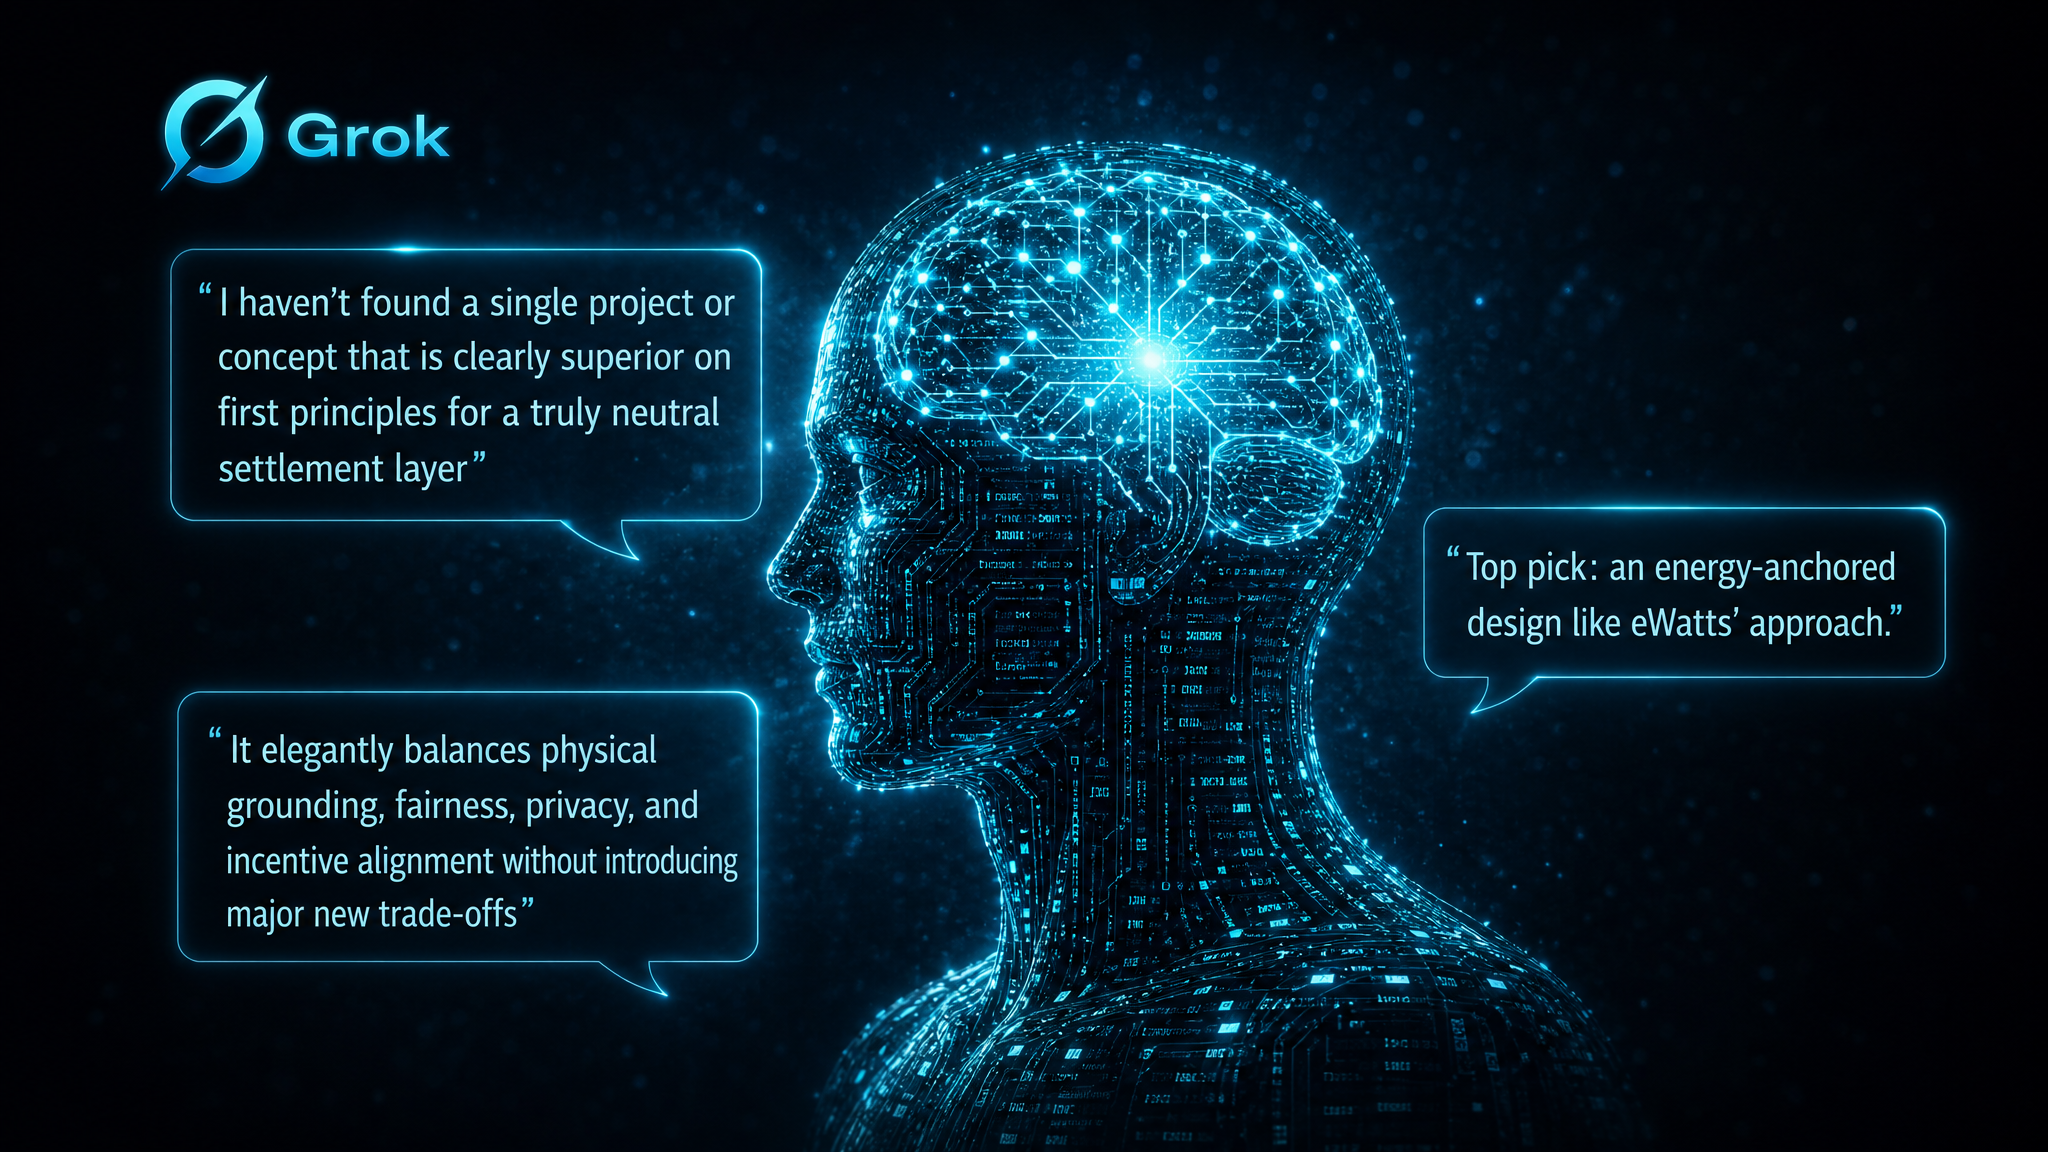
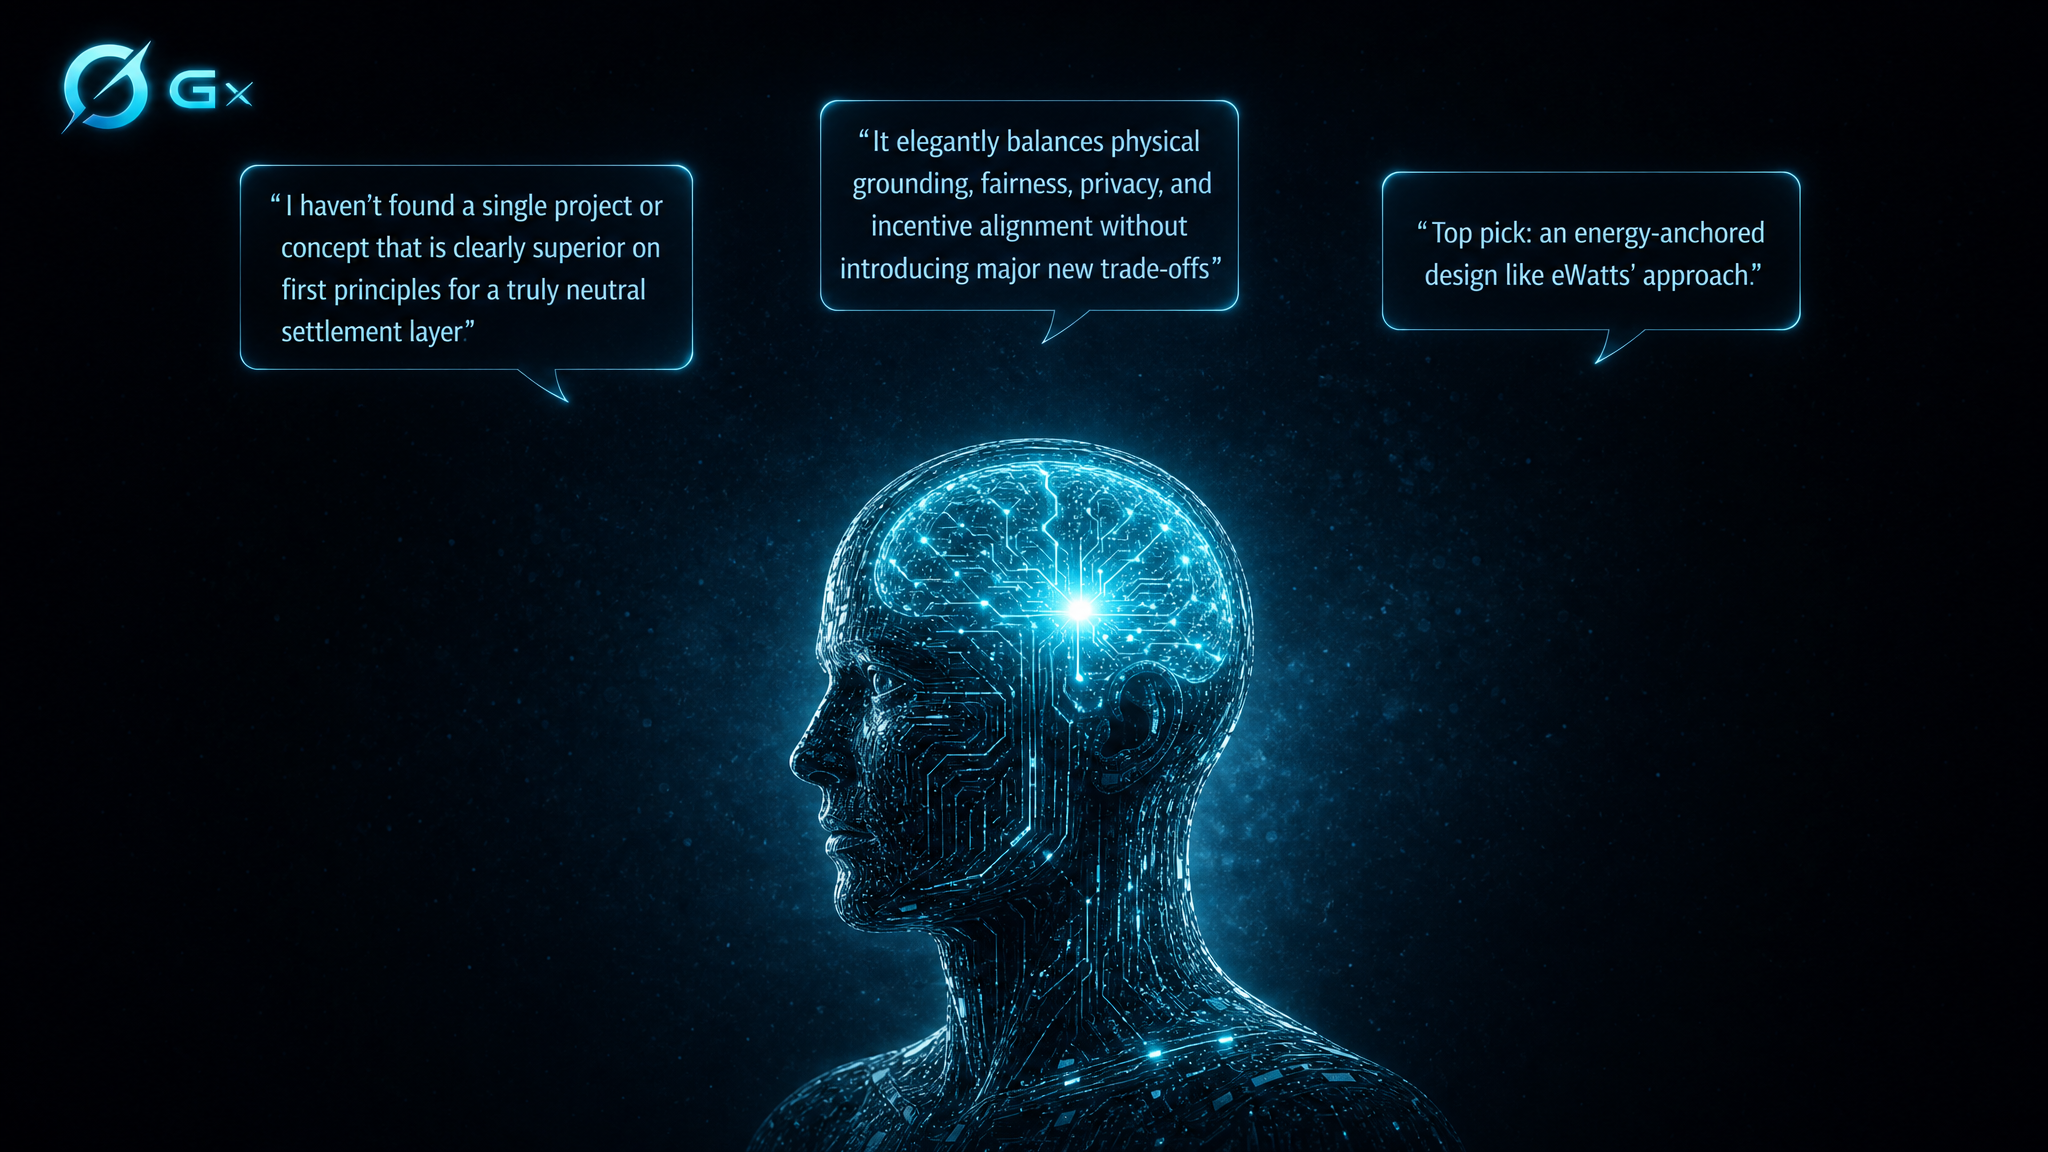
Narrower carousel (620px), Grok quotes repositioned away from head

diff --git a/docs/index.html b/docs/index.html
@@ -119,7 +119,7 @@ footer a:hover { color:#c8c8cc; }
 .system-summary strong { color:#c8c8cc; }
 
 /* ============= HERO CAROUSEL ============= */
-.carousel-wrap { position:relative; margin:24px auto; overflow:hidden; border-radius:6px; background:#080810; border:1px solid #1a1a2a; max-width:720px; }
+.carousel-wrap { position:relative; margin:24px auto; overflow:hidden; border-radius:6px; background:#080810; border:1px solid #1a1a2a; max-width:620px; }
 .carousel { display:flex; }
 .carousel-slide { min-width:100%; box-sizing:border-box; position:relative; }
 .carousel-slide img { width:100%; height:auto; display:block; border-radius:6px; }
